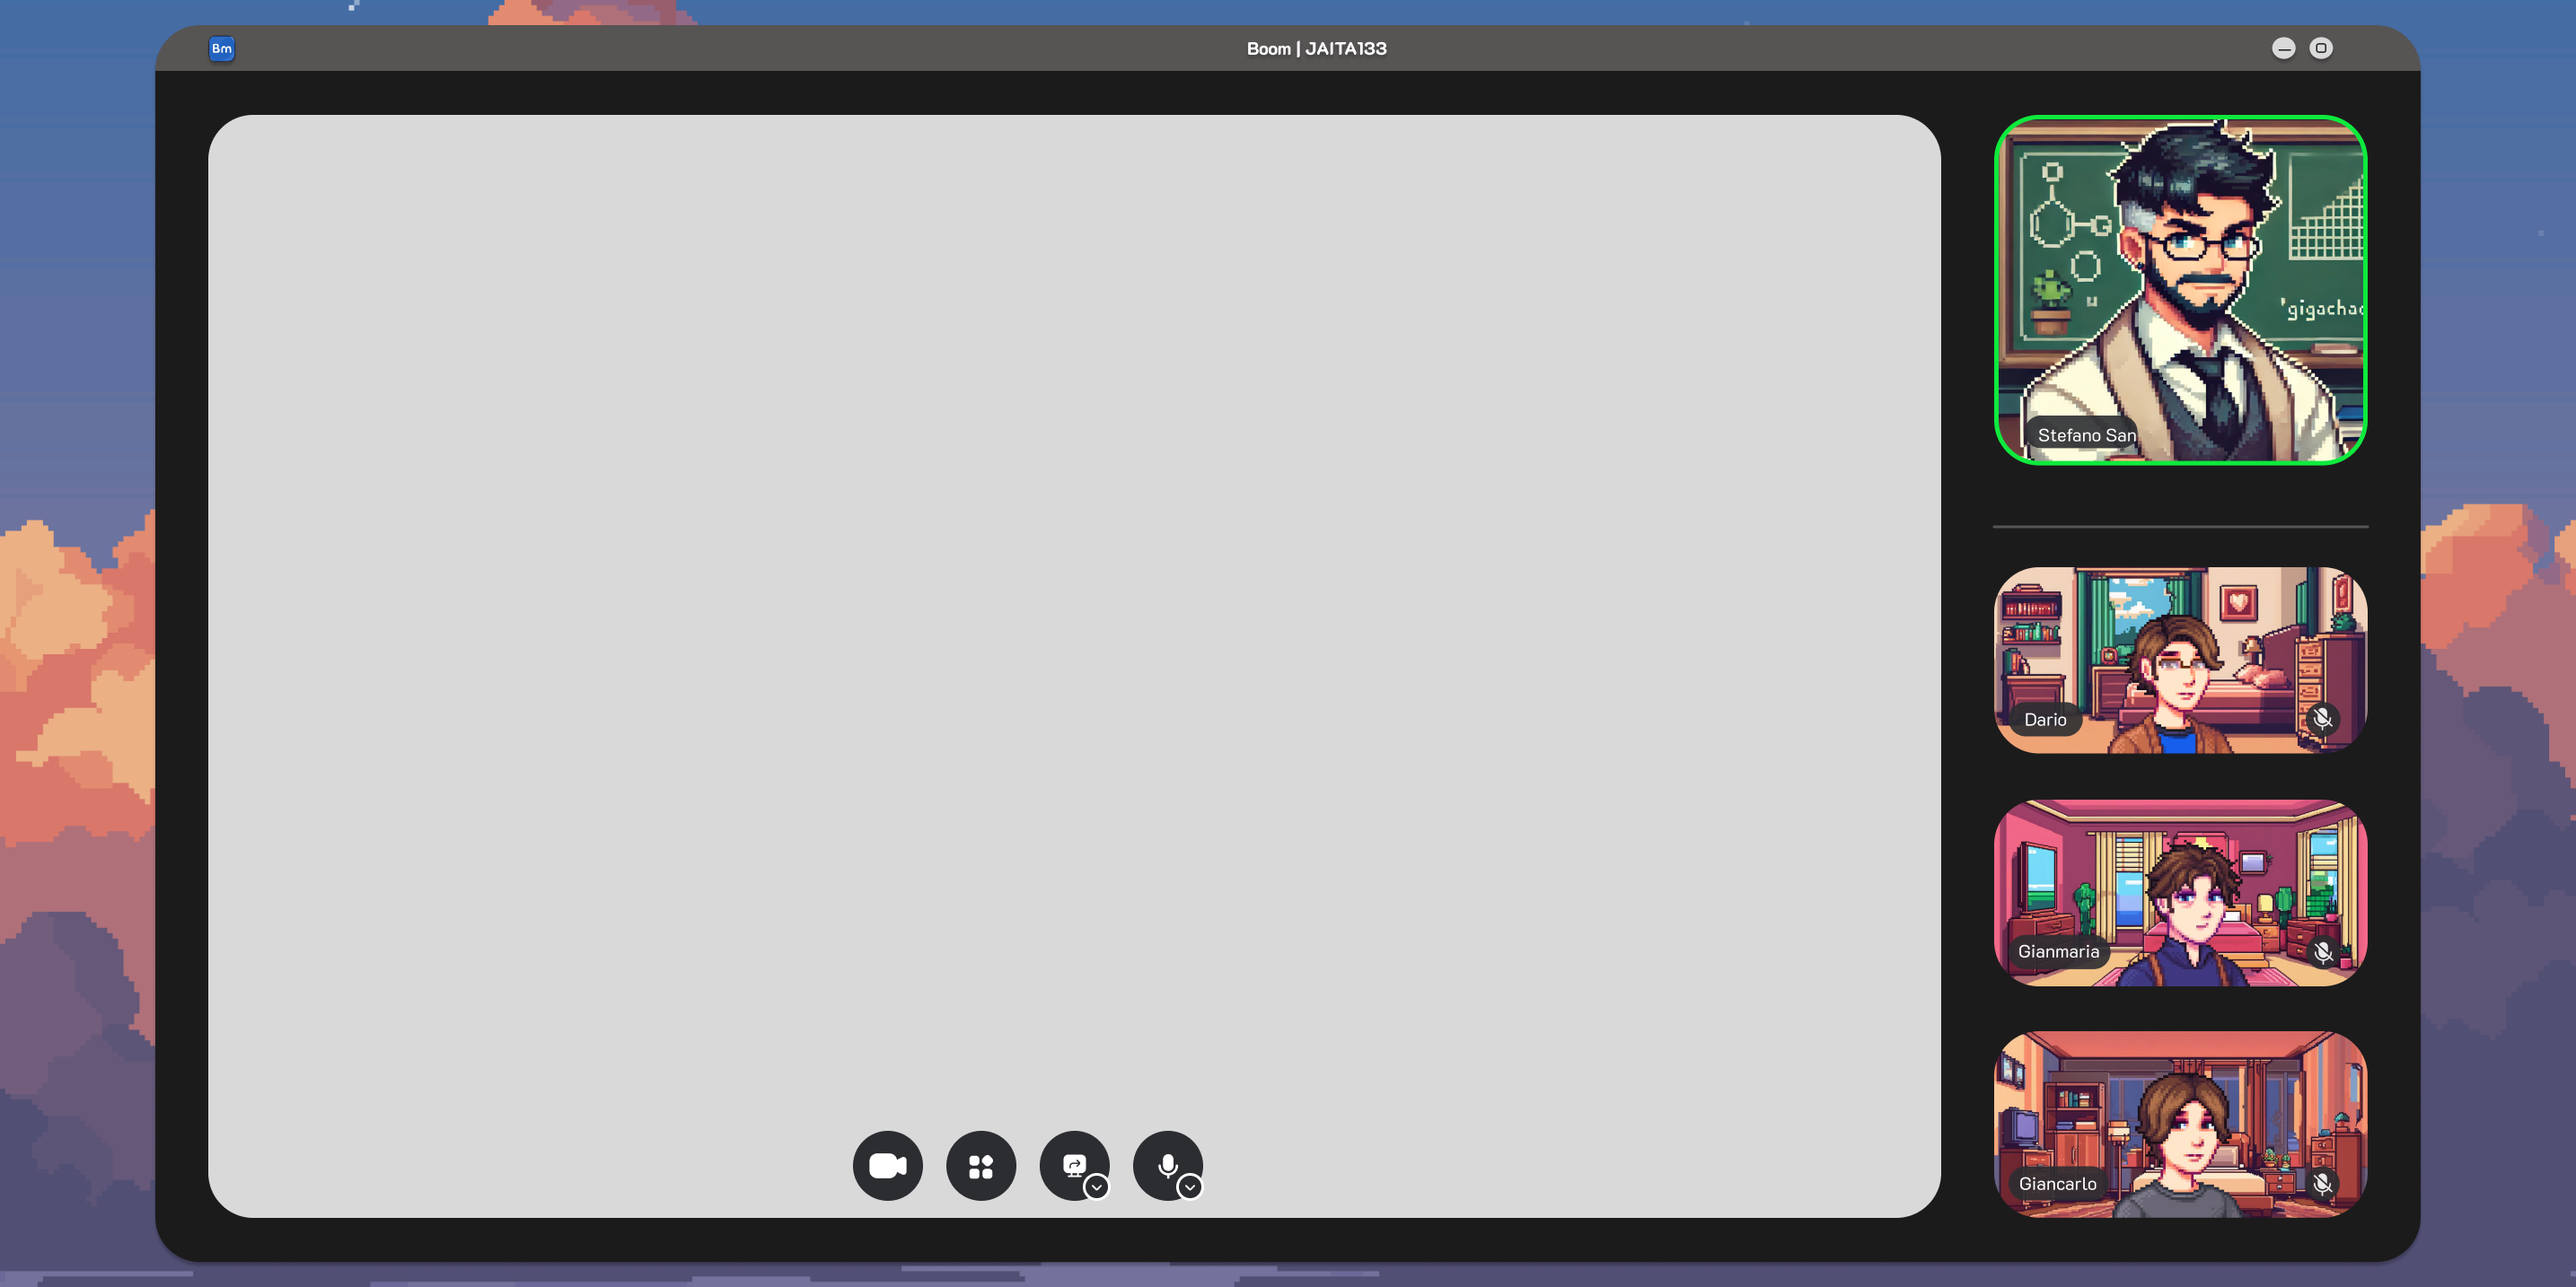
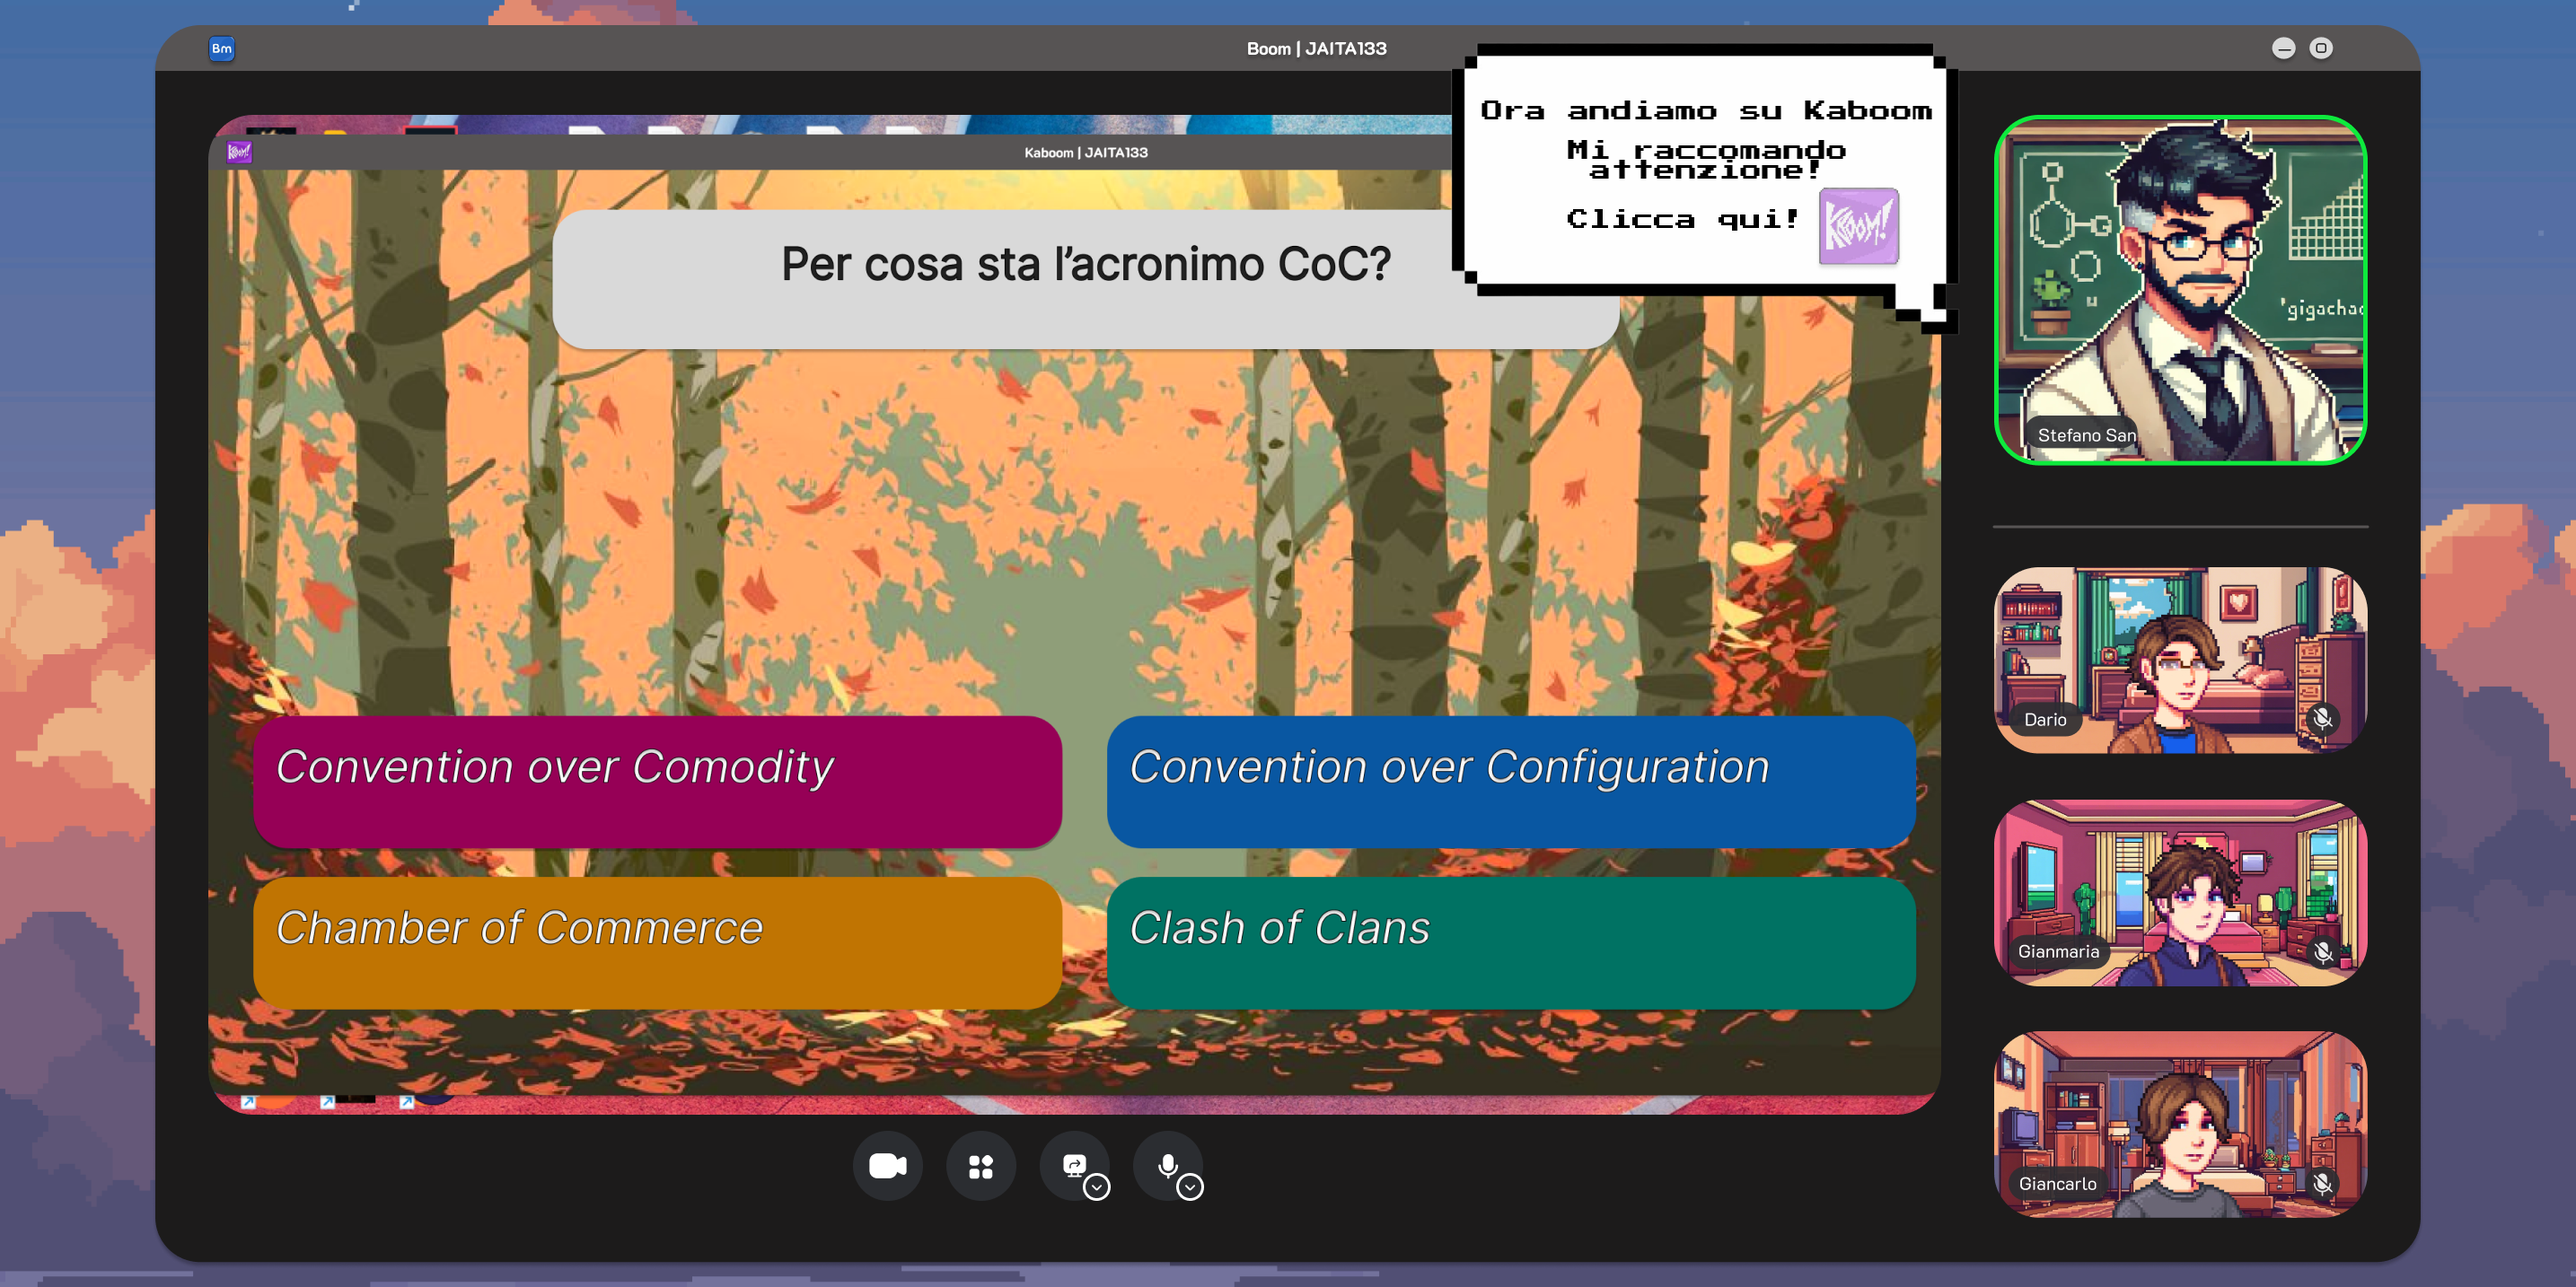
correzione pagina kaboom + meccanica cambio icona in base all'immagine

diff --git a/src/app/Component/schermata-boom/schermata-boom.component.html b/src/app/Component/schermata-boom/schermata-boom.component.html
@@ -25,3 +25,7 @@
        src="sfondi_schermate/desktop/brainj_icon.png"
   />
 </a>
+<a routerLink="/kaboom_dinamico">
+  <img *ngIf="imageWithoutChat" posizione [hoverabile]="true" [x]="1383" [y]="165" [w]="86" [h]="73" [autore]="'F'" [centroMassa]="true"
+       src="sfondi_schermate/desktop/kaboom_icon.png" alt="kaboom">
+</a>
